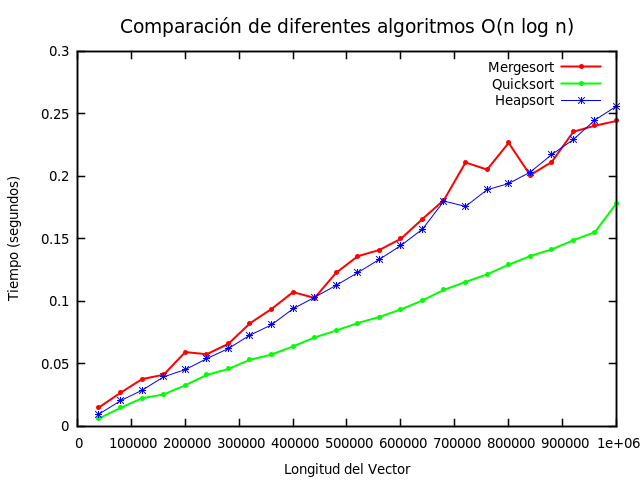
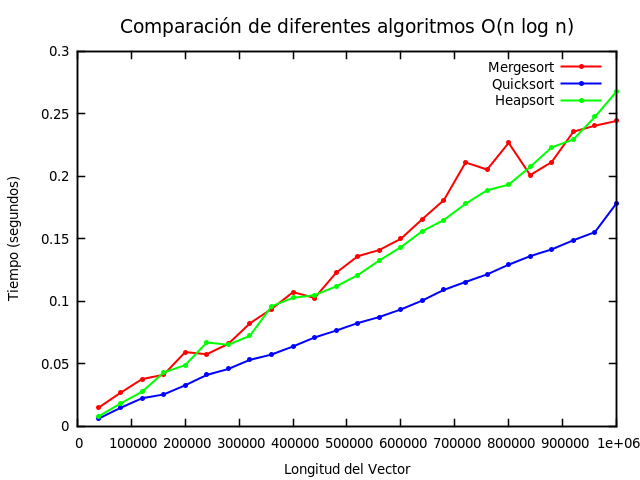
adfafds

diff --git a/Practica1/Code/TablasAndres/ordenacion.md b/Practica1/Code/TablasAndres/ordenacion.md
@@ -2,28 +2,28 @@
 
 | Tamaño del Vector | Burbuja | Seleccion | Insercion | Mergesort | Quicksort | Heapsort |
 |-------------------|---------|-----------|-----------|-----------|-----------|----------|
-|1000|0.005971|0.003397|0.001321|0.000359|0.000195|0.000122|
-|2000|0.018136|0.009589|0.007588|0.000756|0.000269|0.000646|
-|3000|0.024143|0.014704|0.020282|0.00074|0.000671|0.001014|
-|4000|0.043267|0.025817|0.023064|0.000748|0.00067|0.001245|
-|5000|0.067684|0.037817|0.034221|0.002255|0.000567|0.00124|
-|6000|0.099499|0.055028|0.047872|0.001549|0.001661|0.001875|
-|7000|0.137072|0.073739|0.064517|0.003041|0.001953|0.001855|
-|8000|0.181558|0.092111|0.082905|0.003166|0.002456|0.002748|
-|9000|0.232648|0.118624|0.103043|0.004058|0.001649|0.003008|
-|10000|0.290489|0.14394|0.124546|0.003803|0.001971|0.002588|
-|11000|0.354349|0.178614|0.151216|0.004144|0.002048|0.003256|
-|12000|0.433737|0.20678|0.178228|0.0041|0.003616|0.004078|
-|13000|0.519202|0.239558|0.209278|0.005279|0.003037|0.00559|
-|14000|0.59308|0.273397|0.248141|0.006677|0.002399|0.005218|
-|15000|0.689312|0.314147|0.276967|0.006024|0.002247|0.003923|
-|16000|0.789129|0.356495|0.317291|0.007461|0.002721|0.006214|
-|17000|0.890449|0.402106|0.358508|0.006324|0.002745|0.006159|
-|18000|1.01538|0.450575|0.397242|0.008806|0.005765|0.003686|
-|19000|1.1313|0.50472|0.435913|0.008887|0.004034|0.004031|
-|20000|1.26128|0.55525|0.483853|0.007868|0.003407|0.006614|
-|21000|1.39441|0.611367|0.541654|0.00544|0.00359|0.005259|
-|22000|1.55788|0.670662|0.600085|0.006238|0.00374|0.005465|
-|23000|1.68169|0.732809|0.644882|0.010339|0.006076|0.003832|
-|24000|1.84769|0.800821|0.70273|0.010512|0.006921|0.004803|
-|25000|1.9893|0.864984|0.762199|0.009398|0.003104|0.00599|
+|1000|0.005971|0.003397|0.001321|0.000359|0.000195|0.000114|
+|2000|0.018136|0.009589|0.007588|0.000756|0.000269|0.000639|
+|3000|0.024143|0.014704|0.020282|0.00074|0.000671|0.001008|
+|4000|0.043267|0.025817|0.023064|0.000748|0.00067|0.001327|
+|5000|0.067684|0.037817|0.034221|0.002255|0.000567|0.000822|
+|6000|0.099499|0.055028|0.047872|0.001549|0.001661|0.001141|
+|7000|0.137072|0.073739|0.064517|0.003041|0.001953|0.001359|
+|8000|0.181558|0.092111|0.082905|0.003166|0.002456|0.001679|
+|9000|0.232648|0.118624|0.103043|0.004058|0.001649|0.002775|
+|10000|0.290489|0.14394|0.124546|0.003803|0.001971|0.002436|
+|11000|0.354349|0.178614|0.151216|0.004144|0.002048|0.003717|
+|12000|0.433737|0.20678|0.178228|0.0041|0.003616|0.004062|
+|13000|0.519202|0.239558|0.209278|0.005279|0.003037|0.004538|
+|14000|0.59308|0.273397|0.248141|0.006677|0.002399|0.003738|
+|15000|0.689312|0.314147|0.276967|0.006024|0.002247|0.006105|
+|16000|0.789129|0.356495|0.317291|0.007461|0.002721|0.003677|
+|17000|0.890449|0.402106|0.358508|0.006324|0.002745|0.00402|
+|18000|1.01538|0.450575|0.397242|0.008806|0.005765|0.00688|
+|19000|1.1313|0.50472|0.435913|0.008887|0.004034|0.003986|
+|20000|1.26128|0.55525|0.483853|0.007868|0.003407|0.007215|
+|21000|1.39441|0.611367|0.541654|0.00544|0.00359|0.007316|
+|22000|1.55788|0.670662|0.600085|0.006238|0.00374|0.008641|
+|23000|1.68169|0.732809|0.644882|0.010339|0.006076|0.008602|
+|24000|1.84769|0.800821|0.70273|0.010512|0.006921|0.009229|
+|25000|1.9893|0.864984|0.762199|0.009398|0.003104|0.006293|

diff --git a/Practica1/Code/TablasAndres/nlogn.md b/Practica1/Code/TablasAndres/nlogn.md
@@ -2,28 +2,28 @@
 
 | Tamaño del Vector | Mergesort | Quicksort | Heapsort |
 |-------------------|-----------|-----------|----------|
-|40000|0.015087|0.006235|0.009771|
-|80000|0.02682|0.014736|0.020451|
-|120000|0.037756|0.02246|0.028833|
-|160000|0.041266|0.025439|0.039532|
-|200000|0.059359|0.032775|0.045313|
-|240000|0.057706|0.041055|0.054109|
-|280000|0.065938|0.045861|0.062209|
-|320000|0.082393|0.053183|0.072891|
-|360000|0.093771|0.057395|0.081146|
-|400000|0.107337|0.063843|0.094012|
-|440000|0.102685|0.071064|0.103202|
-|480000|0.122825|0.076521|0.112747|
-|520000|0.136037|0.082585|0.122909|
-|560000|0.141045|0.087434|0.133532|
-|600000|0.150005|0.093448|0.144584|
-|640000|0.1658|0.100634|0.157692|
-|680000|0.181068|0.109131|0.180179|
-|720000|0.211107|0.115456|0.175908|
-|760000|0.205422|0.121493|0.189256|
-|800000|0.226734|0.129283|0.19425|
-|840000|0.200972|0.136155|0.203327|
-|880000|0.211482|0.141553|0.217419|
-|920000|0.23571|0.148845|0.229382|
-|960000|0.240497|0.155352|0.245076|
-|1000000|0.244299|0.178312|0.25608|
+|40000|0.015087|0.006235|0.008042|
+|80000|0.02682|0.014736|0.018251|
+|120000|0.037756|0.02246|0.027588|
+|160000|0.041266|0.025439|0.043|
+|200000|0.059359|0.032775|0.048956|
+|240000|0.057706|0.041055|0.067071|
+|280000|0.065938|0.045861|0.065239|
+|320000|0.082393|0.053183|0.072391|
+|360000|0.093771|0.057395|0.095929|
+|400000|0.107337|0.063843|0.102829|
+|440000|0.102685|0.071064|0.104917|
+|480000|0.122825|0.076521|0.111892|
+|520000|0.136037|0.082585|0.120963|
+|560000|0.141045|0.087434|0.132638|
+|600000|0.150005|0.093448|0.143338|
+|640000|0.1658|0.100634|0.156171|
+|680000|0.181068|0.109131|0.165101|
+|720000|0.211107|0.115456|0.178005|
+|760000|0.205422|0.121493|0.188856|
+|800000|0.226734|0.129283|0.193322|
+|840000|0.200972|0.136155|0.207626|
+|880000|0.211482|0.141553|0.223124|
+|920000|0.23571|0.148845|0.229493|
+|960000|0.240497|0.155352|0.247564|
+|1000000|0.244299|0.178312|0.267759|
